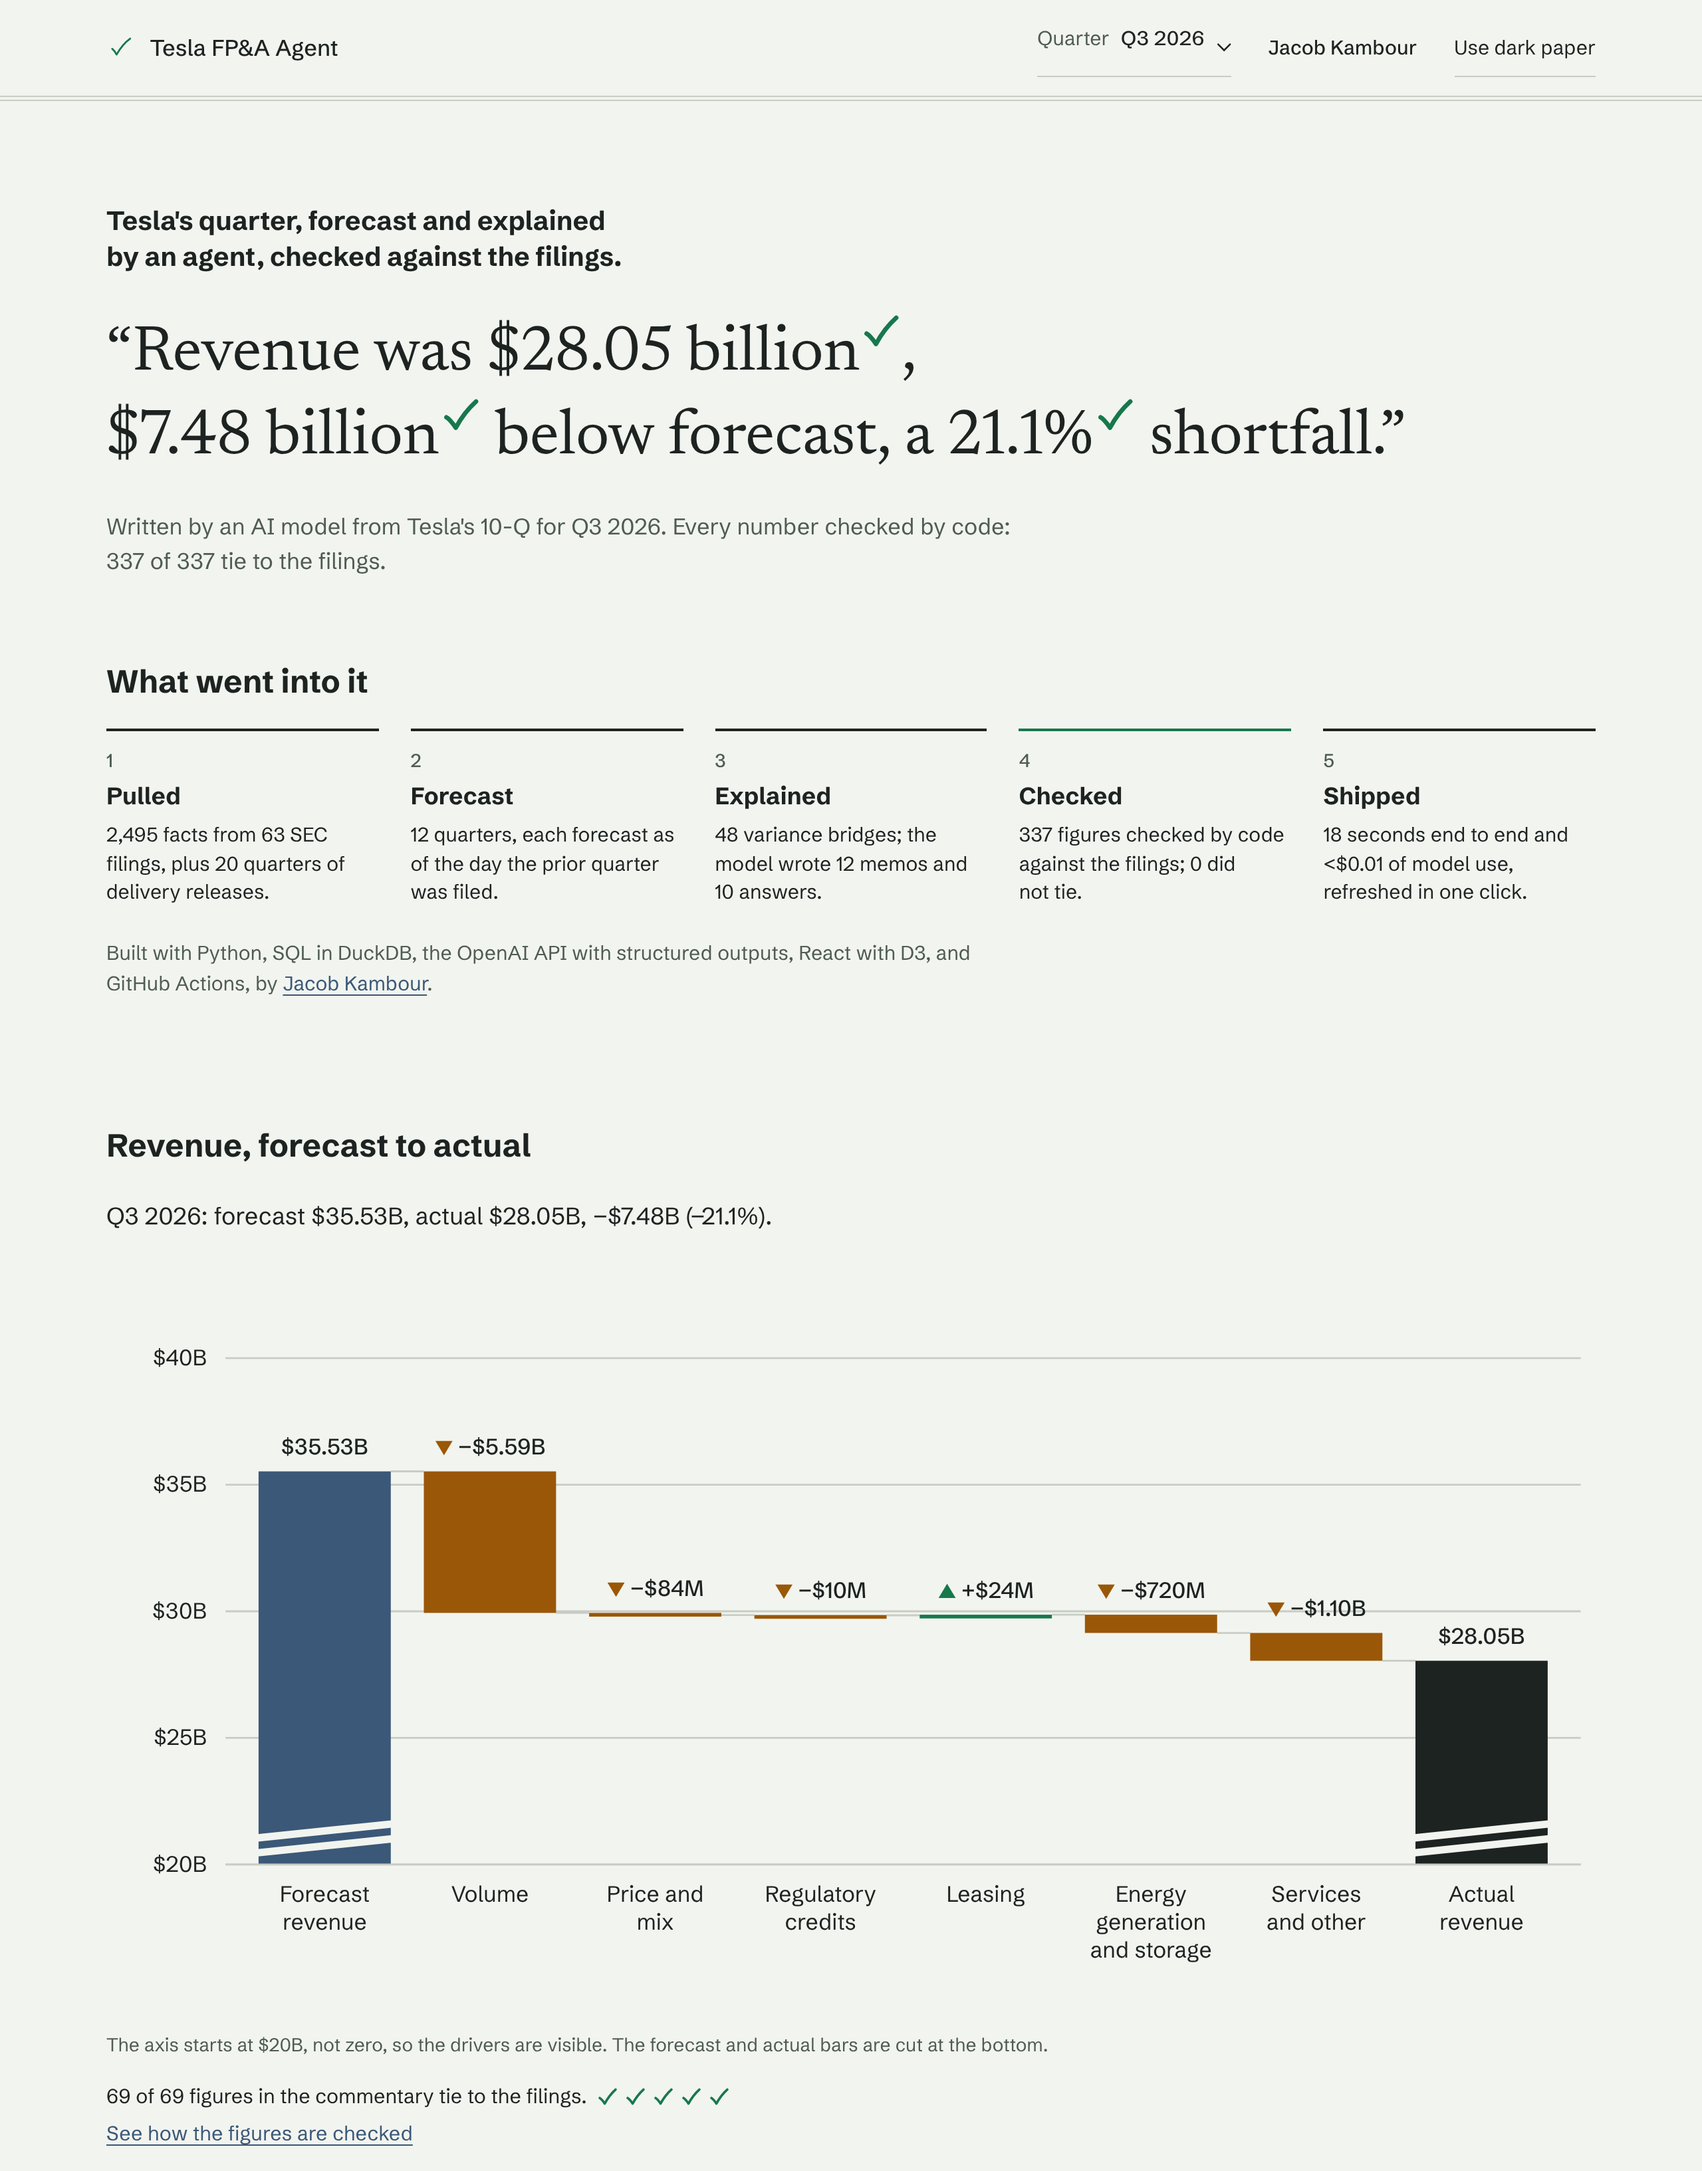
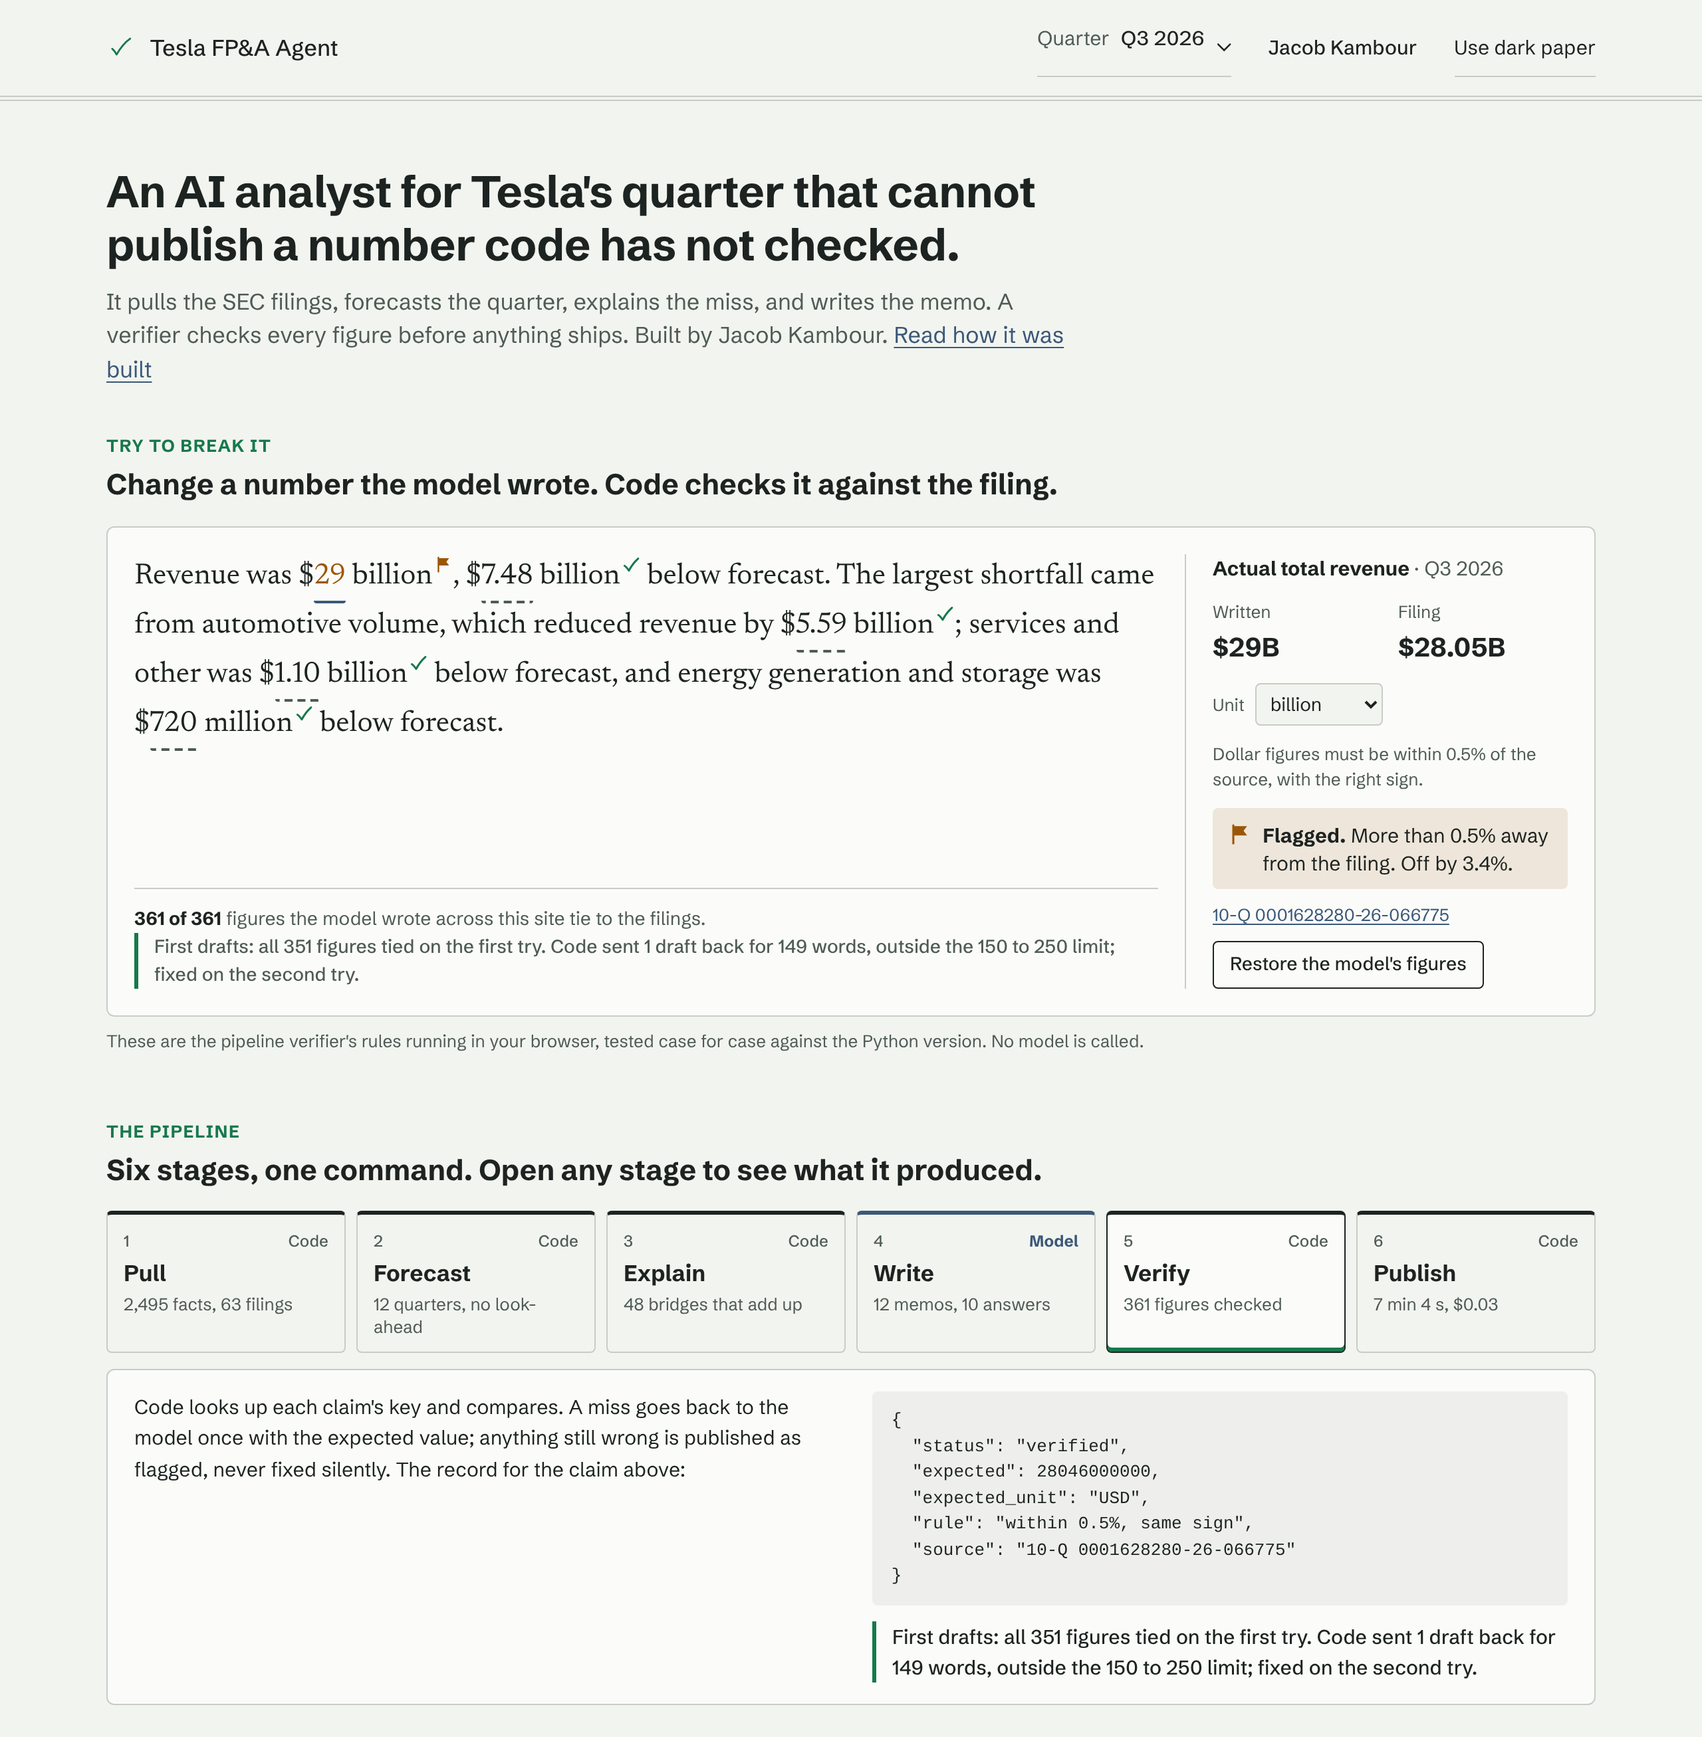
M8-T5: README and screenshot for the new first screen
Claude-Session: https://claude.ai/code/session_01MPaYzZcF66N4BNMfTHPq9Q

diff --git a/README.md b/README.md
@@ -4,7 +4,9 @@ Quarterly variance analysis is slow, manual work. An analyst rebuilds the foreca
 
 **Live dashboard:** https://kambourr.github.io/tesla-fpa-agent/ · **Plain-language write-up:** https://kambourr.github.io/tesla-fpa-agent/how-it-was-built.html
 
-![The dashboard for Q3 2026: a sentence the model wrote with a tick on every figure, 337 of 337 figures tied to the filings, the five steps that went into it, and the revenue bridge from forecast to actual](docs/images/dashboard.png)
+![The dashboard's first screen: the model's Q3 2026 memo with editable figures, one changed from $28.05 billion to $29 billion and flagged by the in-browser verifier (off by 3.4% from the 10-Q), and the six pipeline stages with the Verify stage open](docs/images/dashboard.png)
+
+On the page you can change any figure the model wrote and watch the verifier's rules, ported to the browser and tested case for case against the Python version, flag it. Each pipeline stage opens the real artifact it produced.
 
 ## What it does
 
@@ -17,7 +19,7 @@ Quarterly variance analysis is slow, manual work. An analyst rebuilds the foreca
 
 ## How accuracy is controlled
 
-On the latest live run (November 5, 2026), the verifier checked all 337 figures the model wrote across the 12 memos and the 10 answers: 337 tied to the filings or the computed tables, 0 were flagged, and 0 could not be traced.
+On the latest full run (November 5, 2026), every one of the 351 figures in the model's first drafts tied to the filings or the computed tables. Code sent one draft back for breaking a format rule (149 words, under the 150-word minimum), and the retry passed. The published commentary carries 361 figures across the 12 memos and the 10 answers: 361 tied, 0 flagged, 0 could not be traced. The pipeline records what it rejects in each first draft, so a miss would be shown, not hidden.
 
 The model never sees raw filings. It receives a fact sheet: every citable number for the quarter, each with a key, a period, a unit, and its source filing. Each figure it writes must cite one of those keys, and the verifier looks it up and compares. On the dashboard every AI-written figure carries an auditor's tick mark: a green tick when it ties to the filing (click it to open the filing), an amber flag when it does not, and a question mark when it cannot be traced.
 
